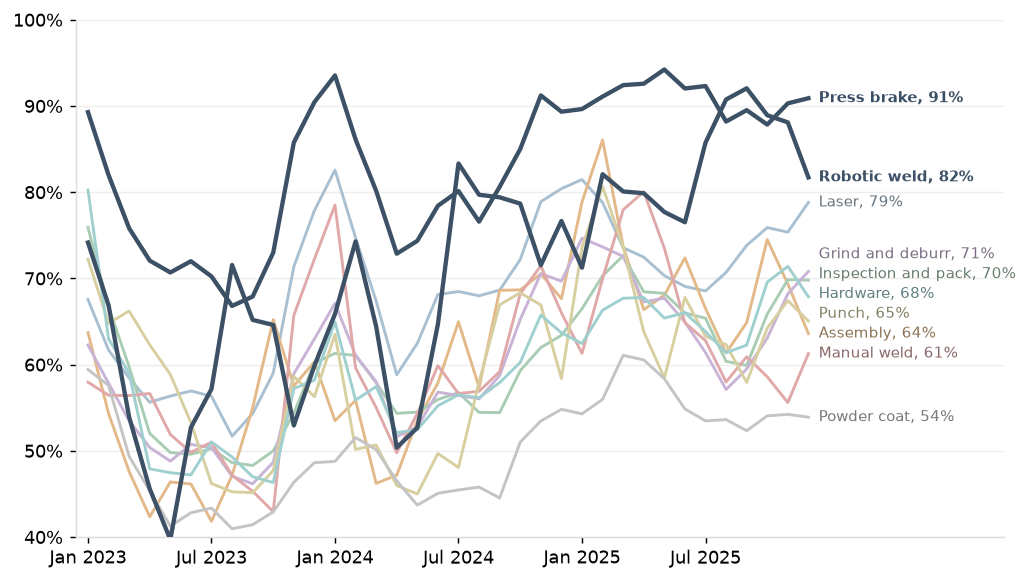
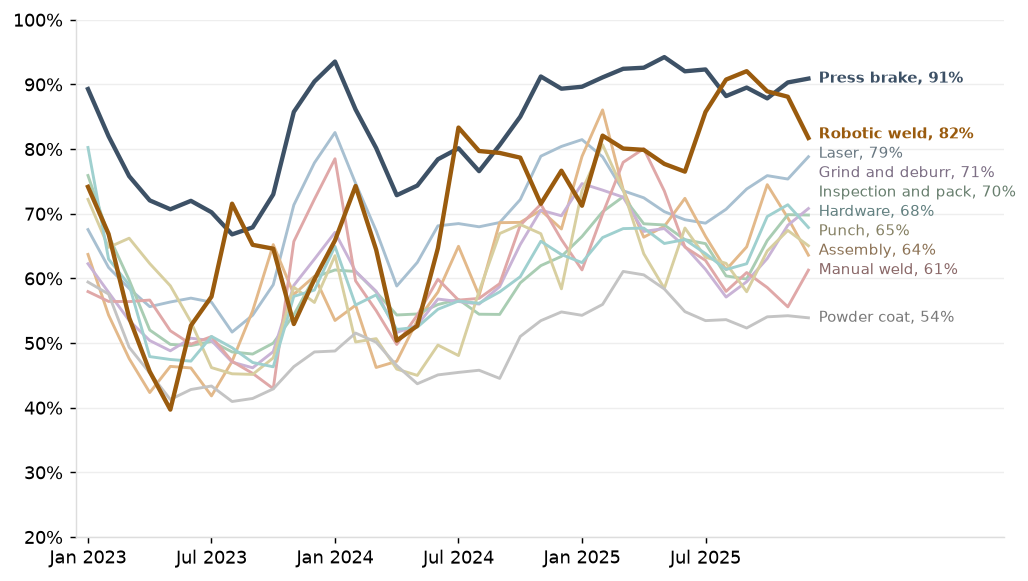
Capacity report: utilization trend axis from 20%, the weld cell in its own colour, chart retitled

diff --git a/docs/reports/capacity_constraints_and_setups.html b/docs/reports/capacity_constraints_and_setups.html
@@ -58,7 +58,7 @@ nav.toc a.sub { font-size: 12px; padding-left: 22px; }
 <div class="layout"><nav class="toc"><div class="toc-title">Contents</div><a href="#f1">1. Capacity Across the Shop</a><a href="#f2">2. Load, Queue Time and WIP</a><a href="#f3">3. Setups Against Standard</a><a href="#f4">4. Run Standards</a><a href="#appendix">Appendix</a></nav>
 <main class="content"><h2 id='f1'>1. Capacity Across the Shop</h2>
 <p>The shop's floor consists of 25 machines across ten work centers. The press brakes run at the highest utilization of any work center, in every quarter since 2023 but one. The robotic weld cell has been second in every quarter from 2025 Q1, having run at 53% to 79% before then, when the lasers and other work centers ran above it; it passed the brakes once, in 2025 Q3 (92% against 90%).</p>
-<div class='chart-title'>Utilization by Work Center, 2023 to 2025</div><img alt="Utilization by Work Center, 2023 to 2025" src="../figures/capacity_utilization_trend.png?v=490adad2">
+<div class='chart-title'>Average monthly utilization by work center, 2023 to 2025</div><img alt="Average monthly utilization by work center, 2023 to 2025" src="../figures/capacity_utilization_trend.png?v=43a5c9c1">
 <p>In 2025, the press brakes ran at 91% utilization against 97% uptime, and this 6-point gap was the smallest production capacity buffer of any work center. The robotic weld cell ran at 83% utilization against 97% uptime, a 14-point buffer. Uptime was 96% to 98% at every work center; for purposes of this report, uptime treats setup as running time, not downtime. See Appendix Table <a href='#t1'>1</a> for additional detail.</p>
 <div class='chart-title'>Utilization and Machine Uptime by Work Center</div><img alt="Utilization and Machine Uptime by Work Center" src="../figures/constraint_utilization_uptime.png?v=398f0550">
 <p>Not only do the press brakes and robotic weld cell have the highest average utilization, they also spend more time than any other work station at or near maximum utilization. Shown below is the share of weeks in 2025 that each work station spent at or above 95% average utilization. The press brakes and the robotic weld cell were at this level in 46% and 38% of weeks throughout the year. See Appendix Table <a href='#t2'>2</a> for additional detail.</p>

diff --git a/analytics/reports/capacity_constraints_and_setups.py b/analytics/reports/capacity_constraints_and_setups.py
@@ -64,6 +64,9 @@ QDAYS = q("select work_center, operations, queue_days, share_of_queue from marts
 TREND_COLORS = ["#A8C0D1", "#E3B98A", "#A9CDB3", "#C9B3D6", "#E0A8A8", "#D8CFA0", "#9FD0CF", "#C4C4C4"]          # light, one for each of the other work centers
 
 
+WELD_CELL = "#9A5B0E"                      # the robotic weld cell's line: dark, and apart from the brakes' blue
+
+
 def darker(color, by=0.62):
     r, g, b_ = (int(color[k:k + 2], 16) for k in (1, 3, 5))
     return "#{:02X}{:02X}{:02X}".format(int(r * by), int(g * by), int(b_ * by))
@@ -80,25 +83,25 @@ def fig_utilization_trend():
     x = np.arange(len(d))
     f, ax = fig(h=4.6)
     others = [c for c in C.UY.sort_values("utilization", ascending=False).index if c not in LEAD_TWO]
-    color = dict(zip(others, TREND_COLORS), **{c: BRAND_BLUE for c in LEAD_TWO})
+    color = dict(zip(others, TREND_COLORS), press_brake=BRAND_BLUE, robotic_weld=WELD_CELL)
     for c in others + LEAD_TWO:
         ax.plot(x, sig(d[c].to_numpy(dtype=float)), color=color[c], linewidth=2.4 if c in LEAD_TWO else 1.6, zorder=3 if c in LEAD_TWO else 2)
     # the names at the right, moved apart where two lines end close together
     ends = d.iloc[-1].sort_values()
-    placed, gap = [], 2.3
+    placed, gap = [], 3.0
     for c, v in ends.items():
         y = float(v) if not placed else max(float(v), placed[-1] + gap)
         placed.append(y)
-        ax.text(x[-1] + 0.5, y, f"{WC[c]}, {v:.0f}%", ha="left", va="center", fontsize=8.5, color=BRAND_BLUE if c in LEAD_TWO else darker(color[c]),
+        ax.text(x[-1] + 0.5, y, f"{WC[c]}, {v:.0f}%", ha="left", va="center", fontsize=8.5, color=color[c] if c in LEAD_TWO else darker(color[c]),
                 fontweight="bold" if c in LEAD_TWO else None)
     first = [k for k in x if d.index[k].month in (1, 7)]
     ax.set_xticks(first)
     ax.set_xticklabels([d.index[k].strftime("%b %Y") for k in first])
     ax.set_xlim(-0.6, x[-1] + 9.5)
-    ax.set_ylim(40, 100)
+    ax.set_ylim(20, 100)
     ax.yaxis.set_major_formatter(lambda t, _: f"{t:.0f}%")
     f.tight_layout()
-    return save(f, "capacity_utilization_trend", "Utilization by Work Center, 2023 to 2025")
+    return save(f, "capacity_utilization_trend", "Average monthly utilization by work center, 2023 to 2025")
 
 
 def fig_hot_share():
@@ -504,7 +507,7 @@ def build():
              f"work center, in every quarter since 2023 but one. The robotic weld cell has been second in every quarter from {since}, having run at "
              f"{P(early.min())} to {P(early.max())} before then, when the lasers and other work centers ran above it; it passed the brakes once, in {swapped[0]} "
              f"({P(qu.loc[swapped[0], 'robotic_weld'])} against {P(qu.loc[swapped[0], 'press_brake'])}).</p>")
-    b.append(chart("Utilization by Work Center, 2023 to 2025", fig_utilization_trend()))
+    b.append(chart("Average monthly utilization by work center, 2023 to 2025", fig_utilization_trend()))
     gap = round(UY["uptime"] * 100) - round(UY["utilization"] * 100)
     assert gap.idxmin() == "press_brake"
     b.append(f"<p>In {YEAR}, the press brakes ran at {P(UY.loc['press_brake', 'utilization'])} utilization against {P(UY.loc['press_brake', 'uptime'])} uptime, and "
